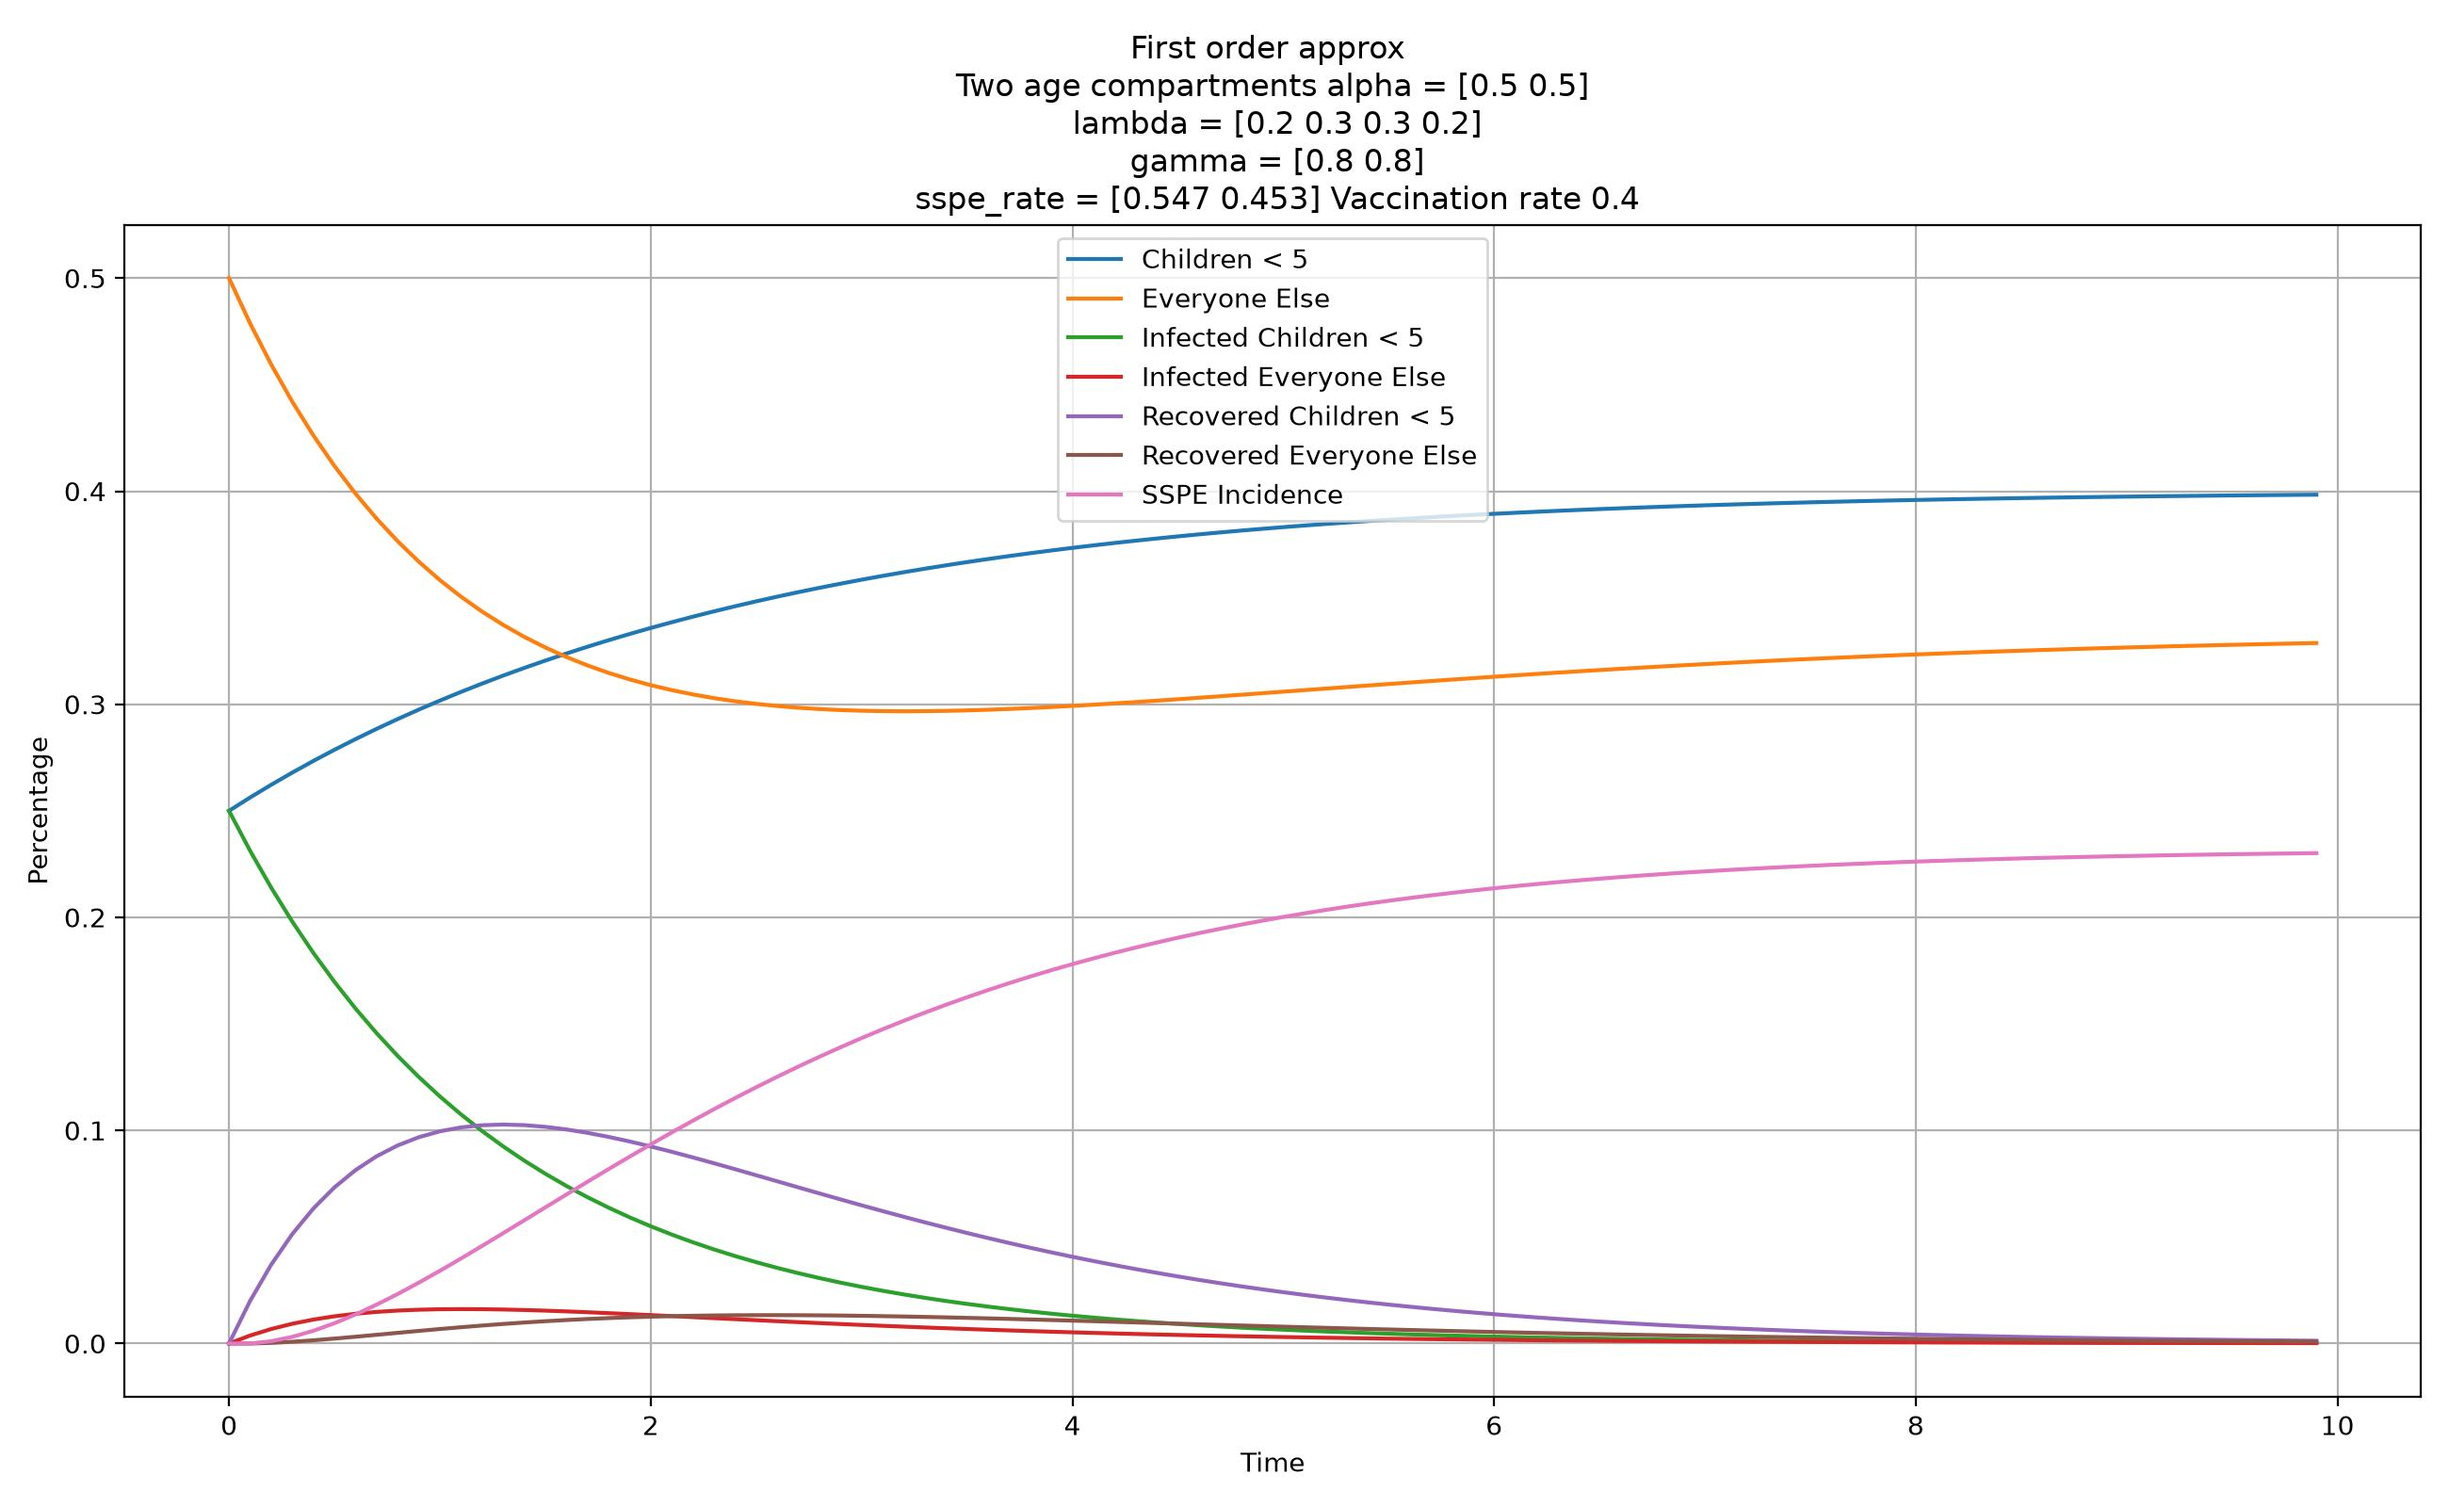
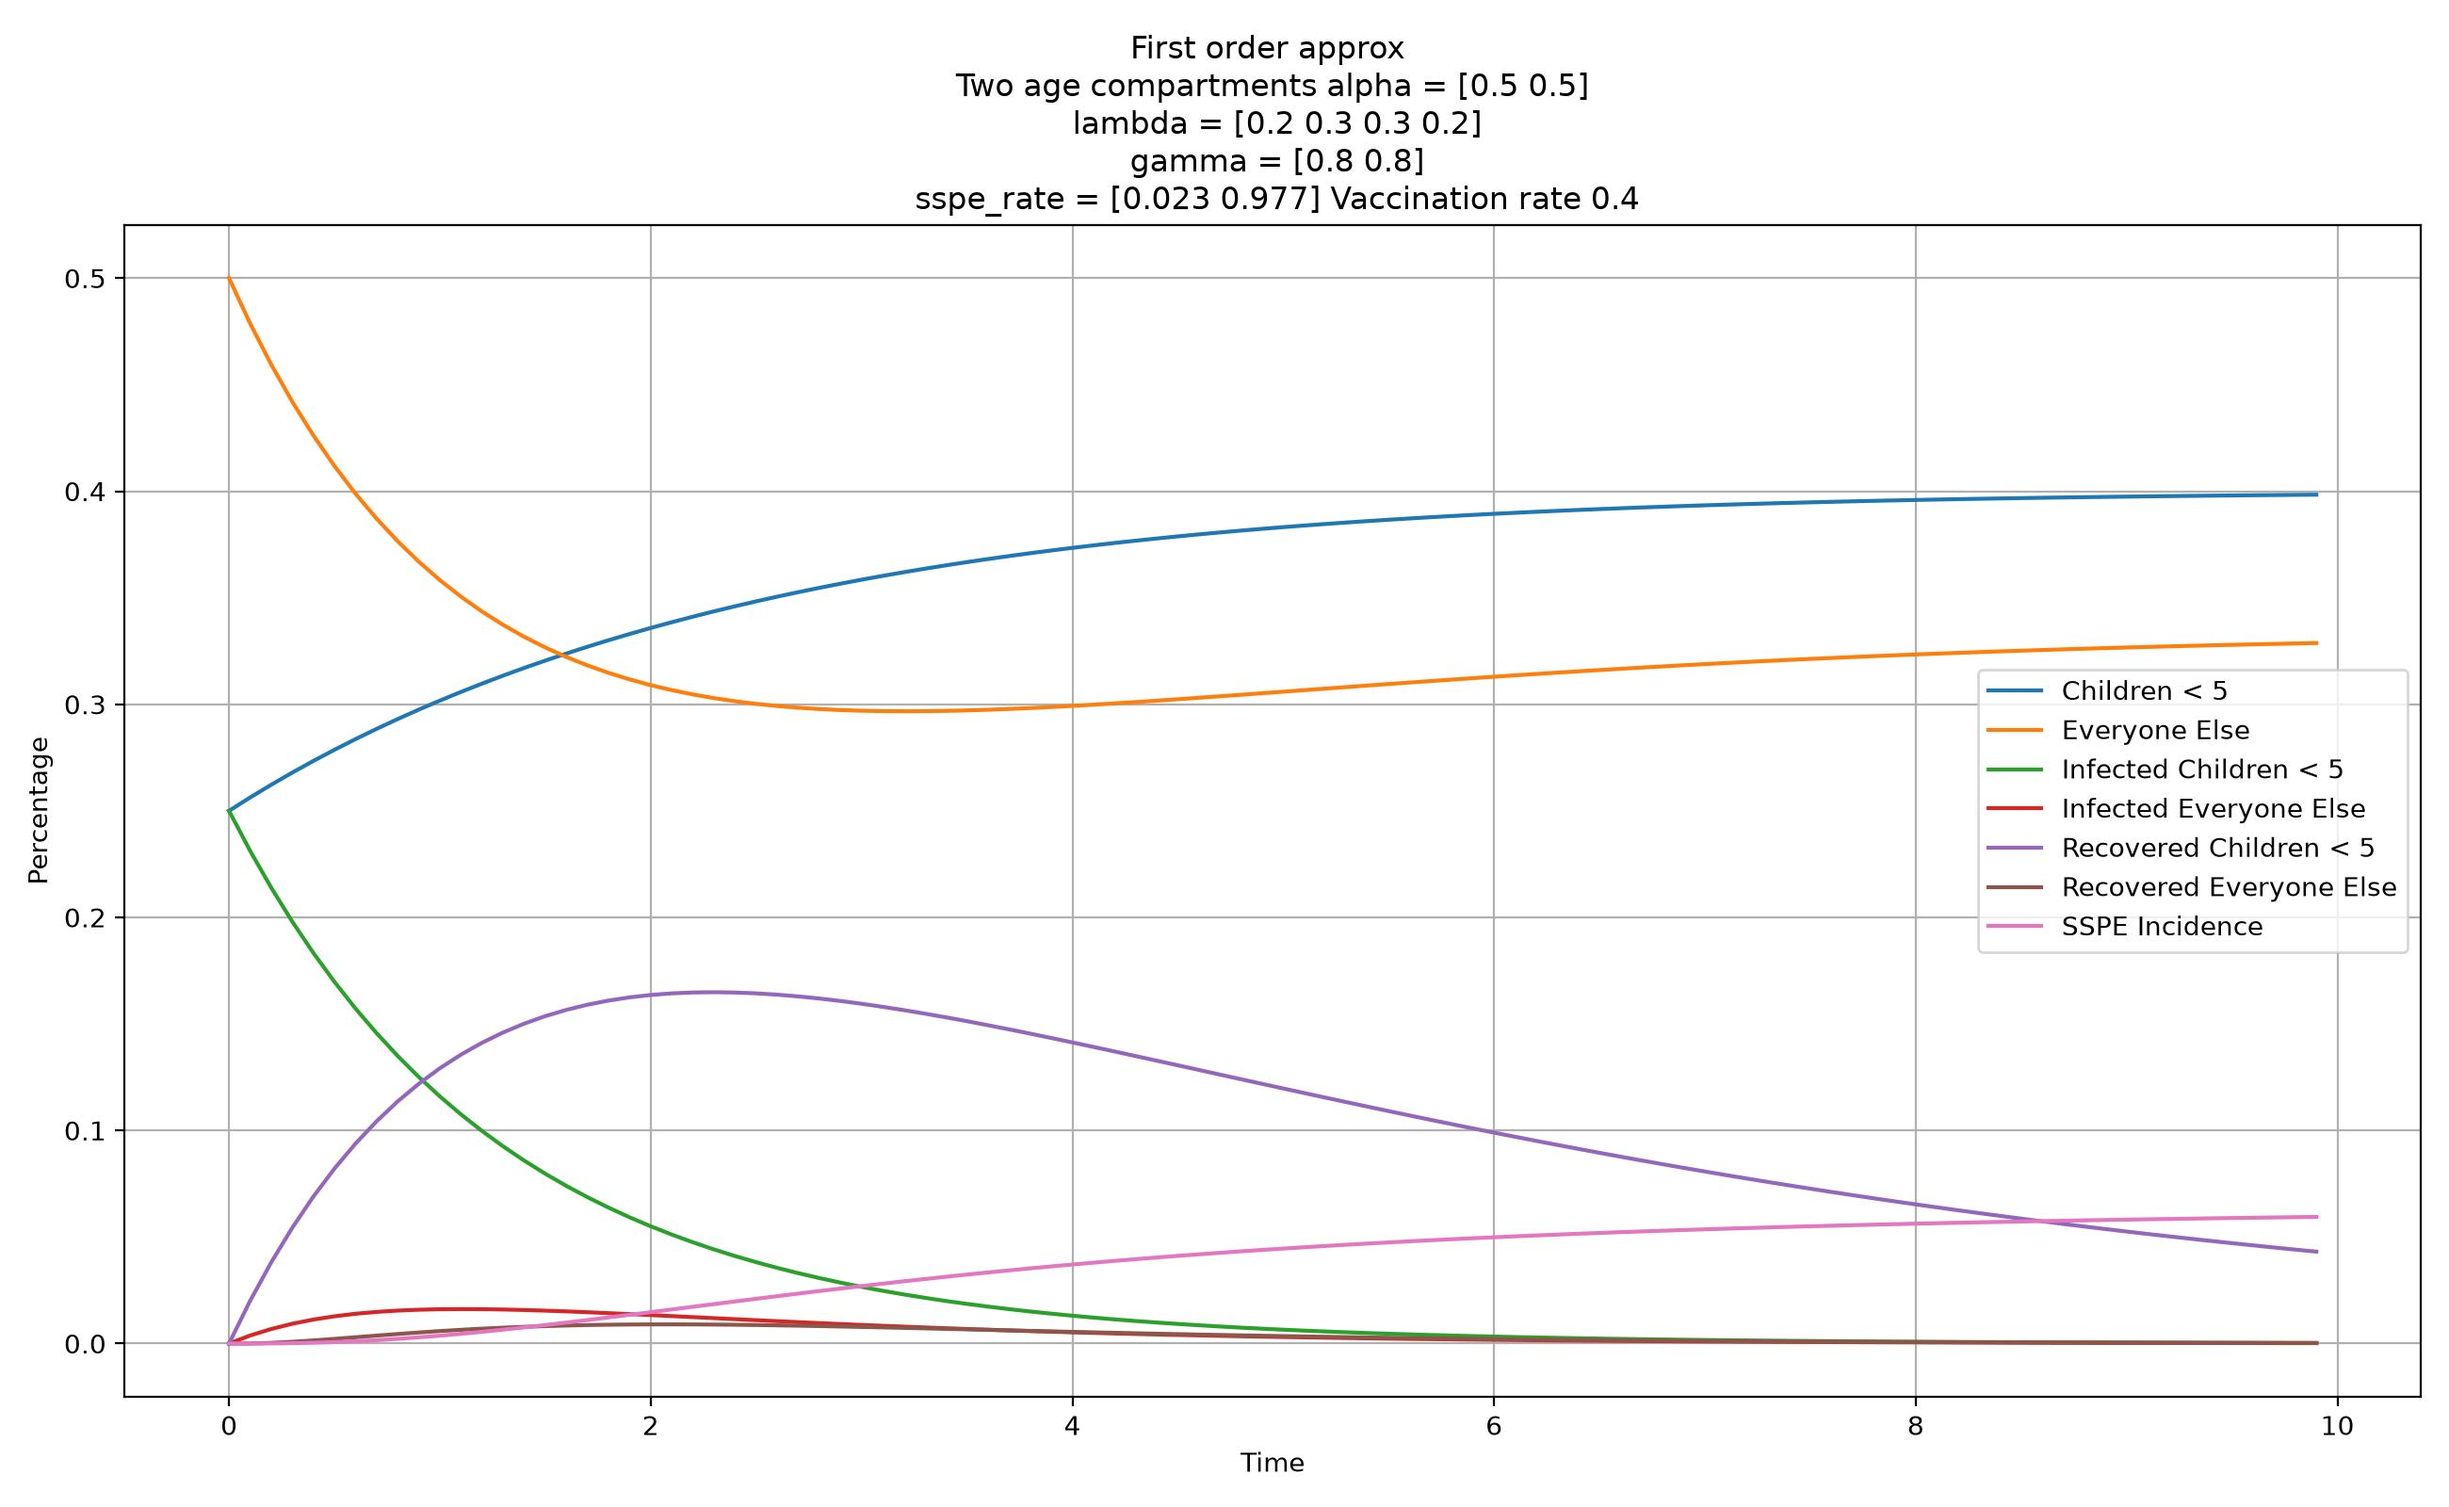
model from paper, run_model updated, beta changed to reflect paper

diff --git a/run_model.py b/run_model.py
@@ -1,18 +1,19 @@
 import numpy as np
 import matplotlib.pyplot as plt
-from model import SSPEV
+from model import SSPE
 
 
-def taylor_system_13(f,initial,t0,t1,n):
+def taylor_system_14(f,initial,t0,t1,n):
     """First order forward iteration"""
     t = t0
     h = (t1 - t0) / n
-    points = np.zeros([8,n])
+    points = np.zeros([9,n])
 
     s = initial[:,0]
     i = initial[:,1]
     r = initial[:,2]
     b_0 = initial[:,3]
+    v_0 = initial[:,4]
 
     for k in range(n):
         points[0,k] = t
@@ -22,8 +23,9 @@ def taylor_system_13(f,initial,t0,t1,n):
         points[4,k] = i[1]
         points[5,k] = r[0]
         points[6,k] = r[1]
-        points[7,k]= b_0[0]
-        s_1_p,s_2_p,i_1_p,i_2_p,r_1_p,r_2_p,b_0_p = f(b,alpha,lamb,gamma,delta,nu,s,i,r)
+        points[7,k] = b_0[0]
+        points[8,k] = v_0[0]
+        s_1_p,s_2_p,i_1_p,i_2_p,r_1_p,r_2_p,b_0_p,v_0_p = f(beta,gamma,delta,nu,s,i,r)
 
         s[0] += h*s_1_p
         s[1] += h*s_2_p
@@ -32,25 +34,26 @@ def taylor_system_13(f,initial,t0,t1,n):
         r[0] += h*r_1_p
         r[1] += h*r_2_p
         b_0 += h*b_0_p
+        v_0 += h*v_0_p
         t += h
 
     return points
 
 
-b = 0.2
-alpha = 0.5*np.ones(2)
-lamb = np.array([[0.2,0.3],[0.3,0.2]])
-lamb = lamb.flatten()
+beta = np.array([[0.2,0.3],[0.3,0.2]])
+beta = beta.flatten()
 gamma = np.array([0.8,0.8])
-delta = np.random.uniform(0,1)
-delta = np.array([delta,1-delta])
+#delta = np.random.uniform(0,0.05)
+delta = 1 / 1336
+delta = np.array([delta,0])
 nu = 0.4
 initial_s = np.array([0.25,0.5])
 initial_i = np.array([0.25,0.])
 initial_r = np.zeros(2)
 initial_b = np.zeros(2)
-initial = np.column_stack([initial_s,initial_i,initial_r,initial_b])
-points = taylor_system_13(SSPEV,initial,0,10,100)
+initial_v = np.zeros(2)
+initial = np.column_stack([initial_s,initial_i,initial_r,initial_b,initial_v])
+points = taylor_system_14(SSPE,initial,0,10,100)
 t = points[0,:]
 s_1 = points[1,:]
 s_2 = points[2,:]
@@ -59,7 +62,7 @@ i_2 = points[4,:]
 r_1 = points[5,:]
 r_2 = points[6,:]
 b_1 = points[7,:]
-
+v_1 = points[8,:]
 
 plt.figure(figsize=(13,8))
 plt.plot(t,s_1, label='Children < 5')
@@ -69,33 +72,39 @@ plt.plot(t,i_2, label='Infected Everyone Else')
 plt.plot(t,r_1, label='Recovered Children < 5')
 plt.plot(t,r_2, label='Recovered Everyone Else')
 plt.plot(t,b_1, label='SSPE Incidence')
+plt.plot(t,v_1, label='Vaccinated population')
 plt.xlabel('Time')
 plt.ylabel('Percentage')
-plt.title(f"First order approx \n Two age compartments alpha = {alpha} \n lambda = {lamb}\n gamma = {gamma}\n sspe_rate = {np.round(delta,3)} Vaccination rate {nu}")
+plt.title(rf"First order approx {'\n'} $\beta$ = {beta} {'\n'} $\gamma$ = {gamma} {'\n'} sspe_rate = {np.round(delta[0],3)} Vaccination rate {nu}")
 plt.grid()
 plt.legend()
 plt.tight_layout()
-plt.savefig(f'figures/SSPEV_system.jpg',dpi=200)
+plt.savefig(f'figures/SSPE_system.jpg',dpi=200)
 plt.show()
 plt.close()
 
 
-fig, ax = plt.subplots(1,2,figsize=(13,8))
-ax[0].plot(t,b_1, label='SSPE Incidence Children < 5')
-ax[0].set_xlabel('Time')
-ax[0].set_ylabel('Percentage')
-ax[0].set_title(f"SSPE Incidence\n sspe_rate = {np.round(delta,3)} vaccination_rate {nu}")
-ax[0].grid()
-ax[0].legend()
-ax[1].plot(t,r_1, label='Recovered Children < 5')
-ax[1].set_xlabel('Time')
-ax[1].set_ylabel('Percentage')
-ax[1].grid()
-ax[1].set_title(f'Recovered population over time rate = {nu}')
+fig, ax = plt.subplots(2,2,figsize=(13,8))
+ax[0,0].plot(t,b_1, label='SSPE Incidence Children < 5')
+ax[0,0].set_xlabel('Time')
+ax[0,0].set_ylabel('Percentage')
+ax[0,0].set_title(f"SSPE Incidence \n sspe_rate = {np.round(delta[0],3)} vaccination_rate {nu}")
+ax[0,0].grid()
+ax[0,0].legend()
+ax[0,1].plot(t,r_1, label='Recovered Children < 5')
+ax[0,1].set_xlabel('Time')
+ax[0,1].set_ylabel('Percentage')
+ax[0,1].grid()
+ax[0,1].set_title(f'Recovered population over time rate')
+ax[1,1].plot(t,v_1, label='Vaccinated Population')
+ax[1,1].set_xlabel('Time')
+ax[1,1].set_ylabel('Percentage')
+ax[1,1].grid()
+ax[1,1].set_title(rf'Vaccinated population over time rate = $\nu$ {nu}')
 plt.legend()
 plt.tight_layout()
-fig.suptitle(f"First order approx \n Two age compartments alpha = {alpha} \n lambda = {lamb}\n gamma = {gamma}\n sspe_rate = {np.round(delta,3)} vaccination_rate {nu}")
+fig.suptitle(rf"First order approx {'\n'} $\beta$ = {beta} {'\n'} $\gamma$ = {gamma} {'\n'} sspe_rate = {np.round(delta[0],3)} vaccination_rate {nu}")
 fig.tight_layout()
-plt.savefig(f'figures/SSPEV_curves.jpg',dpi=200)
+plt.savefig(f'figures/SSPE_curves.jpg',dpi=200)
 plt.show()
 plt.close()

diff --git a/development/run_model_demographics.py b/development/run_model_demographics.py
@@ -1,0 +1,101 @@
+import numpy as np
+import matplotlib.pyplot as plt
+from model import SSPEV
+
+
+def taylor_system_13(f,initial,t0,t1,n):
+    """First order forward iteration"""
+    t = t0
+    h = (t1 - t0) / n
+    points = np.zeros([8,n])
+
+    s = initial[:,0]
+    i = initial[:,1]
+    r = initial[:,2]
+    b_0 = initial[:,3]
+
+    for k in range(n):
+        points[0,k] = t
+        points[1,k] = s[0]
+        points[2,k] = s[1]
+        points[3,k] = i[0]
+        points[4,k] = i[1]
+        points[5,k] = r[0]
+        points[6,k] = r[1]
+        points[7,k]= b_0[0]
+        s_1_p,s_2_p,i_1_p,i_2_p,r_1_p,r_2_p,b_0_p = f(b,alpha,lamb,gamma,delta,nu,s,i,r)
+
+        s[0] += h*s_1_p
+        s[1] += h*s_2_p
+        i[0] += h*i_1_p
+        i[1] += h*i_2_p
+        r[0] += h*r_1_p
+        r[1] += h*r_2_p
+        b_0 += h*b_0_p
+        t += h
+
+    return points
+
+
+b = 0.2
+alpha = 0.5*np.ones(2)
+lamb = np.array([[0.2,0.3],[0.3,0.2]])
+lamb = lamb.flatten()
+gamma = np.array([0.8,0.8])
+delta = np.random.uniform(0,1)
+delta = np.array([delta,1-delta])
+nu = 0.4
+initial_s = np.array([0.25,0.5])
+initial_i = np.array([0.25,0.])
+initial_r = np.zeros(2)
+initial_b = np.zeros(2)
+initial = np.column_stack([initial_s,initial_i,initial_r,initial_b])
+points = taylor_system_13(SSPEV,initial,0,10,100)
+t = points[0,:]
+s_1 = points[1,:]
+s_2 = points[2,:]
+i_1 = points[3,:]
+i_2 = points[4,:]
+r_1 = points[5,:]
+r_2 = points[6,:]
+b_1 = points[7,:]
+
+
+plt.figure(figsize=(13,8))
+plt.plot(t,s_1, label='Children < 5')
+plt.plot(t,s_2, label='Everyone Else')
+plt.plot(t,i_1, label='Infected Children < 5')
+plt.plot(t,i_2, label='Infected Everyone Else')
+plt.plot(t,r_1, label='Recovered Children < 5')
+plt.plot(t,r_2, label='Recovered Everyone Else')
+plt.plot(t,b_1, label='SSPE Incidence')
+plt.xlabel('Time')
+plt.ylabel('Percentage')
+plt.title(f"First order approx \n Two age compartments alpha = {alpha} \n lambda = {lamb}\n gamma = {gamma}\n sspe_rate = {np.round(delta,3)} Vaccination rate {nu}")
+plt.grid()
+plt.legend()
+plt.tight_layout()
+plt.savefig(f'figures/SSPEV_system.jpg',dpi=200)
+plt.show()
+plt.close()
+
+
+fig, ax = plt.subplots(1,2,figsize=(13,8))
+ax[0].plot(t,b_1, label='SSPE Incidence Children < 5')
+ax[0].set_xlabel('Time')
+ax[0].set_ylabel('Percentage')
+ax[0].set_title(f"SSPE Incidence\n sspe_rate = {np.round(delta,3)} vaccination_rate {nu}")
+ax[0].grid()
+ax[0].legend()
+ax[1].plot(t,r_1, label='Recovered Children < 5')
+ax[1].set_xlabel('Time')
+ax[1].set_ylabel('Percentage')
+ax[1].grid()
+ax[1].set_title(f'Recovered population over time rate = {nu}')
+plt.legend()
+plt.tight_layout()
+fig.suptitle(f"First order approx \n Two age compartments alpha = {alpha} \n lambda = {lamb}\n gamma = {gamma}\n sspe_rate = {np.round(delta,3)} vaccination_rate {nu}")
+fig.tight_layout()
+plt.savefig(f'figures/SSPEV_curves.jpg',dpi=200)
+plt.show()
+plt.close()

diff --git a/model.py b/model.py
@@ -1,7 +1,44 @@
 import numpy as np
 
+
+def SSPE(beta,gamma,delta,nu,s,i,r):
+    """
+    SSPE model with no demographics
+    s (2,)     : Susceptible groups
+    i (2,)     : Infected groups
+    r (2,)     : Recovered groups
+    B (1,)     : SSPE group
+    v (1,)     : Vaccinated group
+    b (1,)     : Birth rate for population 1
+    alpha (2,) : Age rate from s_1 to s_2
+    beta (4,) : Effective contact number between s_i*i_j
+    gamma (2,) : Recovery rate 
+    nu    (1,) : Uniform Vaccination rate across both populations
+    delta (2,) : SSPE incidence in population 1 and 2
+    """
+    
+    s_1 = s[0]
+    s_2 = s[1]
+    i_1 = i[0]
+    i_2 = i[1]
+    r_1 = r[0]
+    r_2 = r[1] 
+    s_1_p = -(beta[0]*i_1+beta[1]*i_2)*s_1 - nu*s_1
+    s_2_p =  -beta[2]*s_2*i_1 - beta[3]*s_2*i_2 - nu*s_2
+    i_1_p = (beta[0]*i_1+beta[1]*i_2)*s_1 - gamma[0]*i_1
+    i_2_p = beta[2]*s_2*i_1 + beta[3]*s_2*i_2  - gamma[1]*i_2 
+    r_1_p = gamma[0]*i_1  - delta[0]*r_1
+    r_2_p = gamma[1]*i_2 
+    b_0_p = delta[0]*r_1 
+    v_0_p = nu*s_1 + nu*s_2
+
+    state = np.array([s_1_p,s_2_p,i_1_p,i_2_p,r_1_p,r_2_p,b_0_p,v_0_p])
+    return state
+
+
 def SSPEV(b,alpha,lamb,gamma,delta,nu,s,i,r):
-    """S compartment with age transfer alpha and infection transfer lambda
+    """
+    Older model with demographics
     b (1,)     : Birth rate for population 1
     s (2,)     : Susceptible groups
     i (2,)     : Infected groups
@@ -12,8 +49,7 @@ def SSPEV(b,alpha,lamb,gamma,delta,nu,s,i,r):
     gamma (2,) : Recovery rate 
     nu    (1,) : Vaccination rate 
     """
-
-    
+ 
     s_1 = s[0]
     s_2 = s[1]
     i_1 = i[0]
@@ -30,6 +66,7 @@ def SSPEV(b,alpha,lamb,gamma,delta,nu,s,i,r):
 
     state = np.array([s_1_p,s_2_p,i_1_p,i_2_p,r_1_p,r_2_p,b_0_p])
     return state
+
 
 def stability_system(b,d,beta,gamma,nu,s,i):
     """

diff --git a/sympy_calcs.py b/sympy_calcs.py
@@ -35,8 +35,9 @@ J = F.jacobian(y_sym)
 
 ### Equilibria
 eqs = sp.solve(F,(s_sym,i_sym),dict=True)
-sp.pprint(sp.simplify(eqs[1][s_sym]))
+#sp.pprint(sp.simplify(eqs[1][s_sym]))
 error = sp.Abs(J)
+#sp.pprint(J.row)
 #sp.pprint(F)
 error_10 = error.subs({s_sym:1,i_sym:0})
 error_01 = error.subs({s_sym:0,i_sym:1})
@@ -44,7 +45,12 @@ error_11 = error.subs({s_sym:1,i_sym:1})
 error_h = error.subs({s_sym:0.5,i_sym:0.5})
 error_p0 = error.subs({s_sym:eqs[0][s_sym],i_sym:0})
 error_pstar = error.subs({s_sym:eqs[1][s_sym],i_sym:eqs[1][i_sym]})
-sp.pprint(error_p0)
-sp.pprint(error_pstar)
-#sp.pprint([sum(error_10.row(r)) for r in range(error_10.rows)])
-#sp.pprint(error_h.norm(1))
+
+sp.pprint(error_10.norm(1).subs({b:1,beta:2,gamma:1,nu:0.5}))
+sp.pprint(error_10.norm(sp.oo).subs({b:1,beta:2,gamma:1,nu:0.5}))
+sp.pprint(error_10.norm(2).subs({b:1,beta:2,gamma:1,nu:0.5}))
+sp.pprint(error_p0.norm(1))
+sp.pprint(error_pstar.norm(1))
+sp.pprint(error_h.norm(1))
+#sp.pprint(sp.Max([sum(error.row(r)) for r in range(error.rows)])
+#sp.pprint(error_p0.norm(1))
